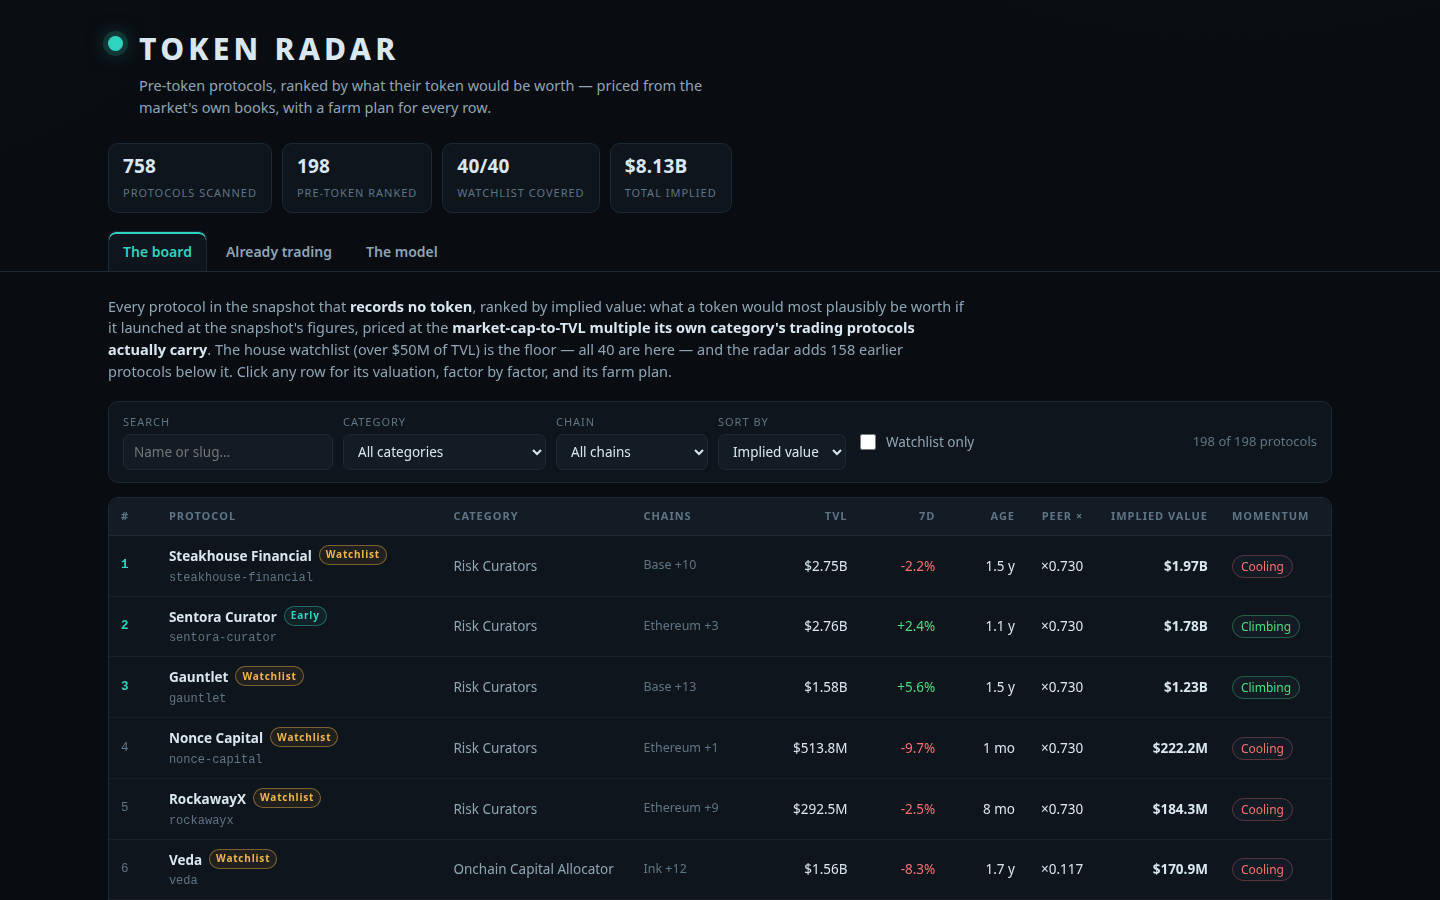
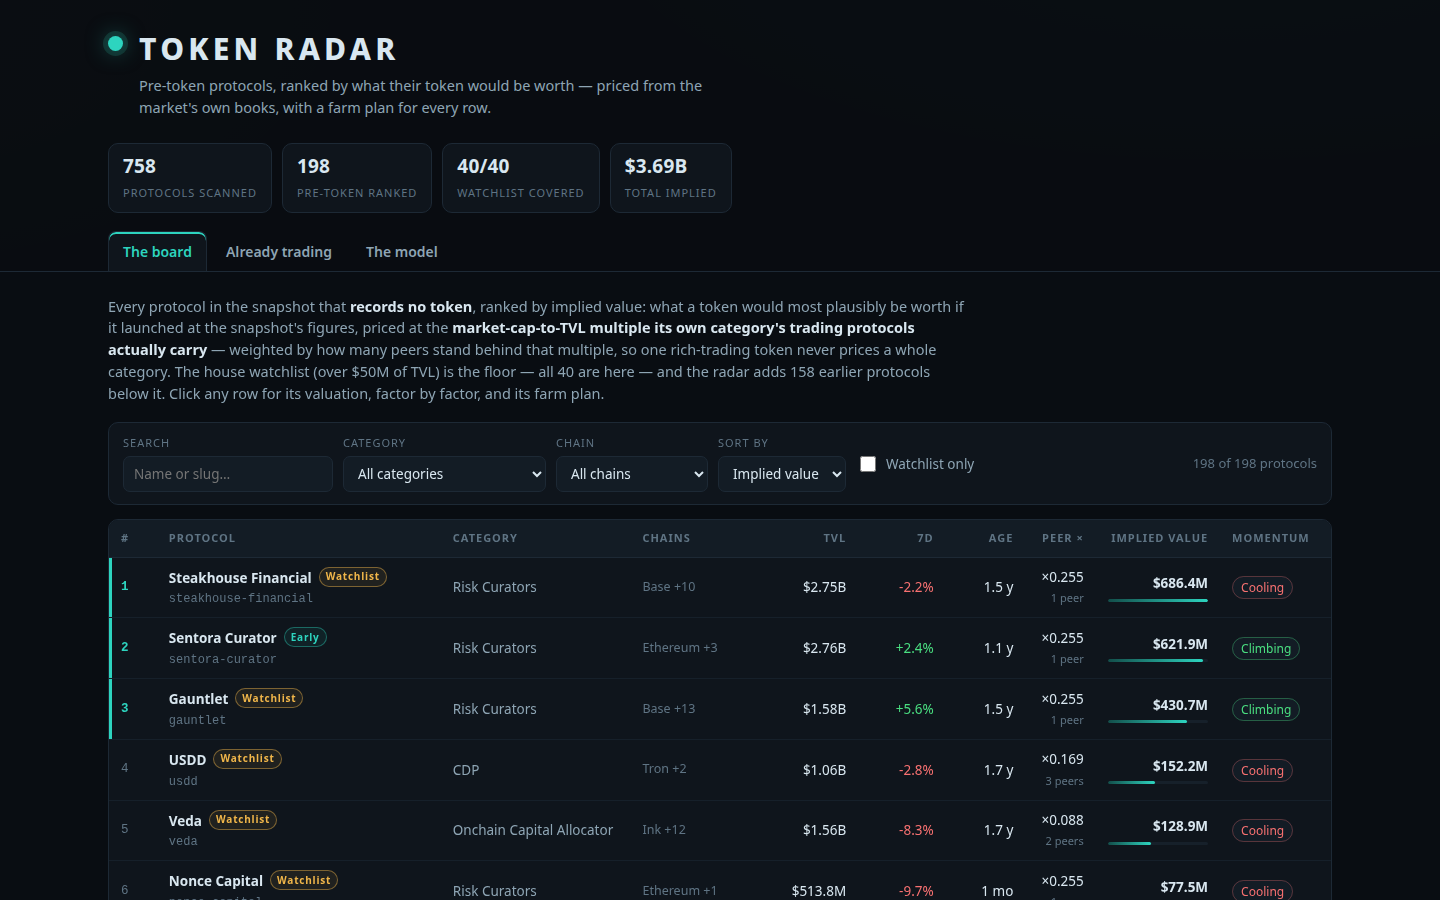
Radar-3: credibility-weighted peer multiples
A category's peer median now counts only with its credibility
Z = peers / (peers + 6), blended geometrically with the market median
(market^(1-Z) x median^Z) instead of an arithmetic shrink. One thin
peer set no longer prices a whole category: Risk Curators' single
12M peer (API3, median x2.975) took the category to x0.730 and 9 of
the top 12 board rows; it now prices at x0.255 (14% credibility), and
the board's top is led by the largest books at believable values
(total implied 8.13B -> 3.69B). Well-supported categories barely
move (Lending x0.142 -> x0.144).

Dashboard: credibility shown on the model page's multiples table and
in every detail page's factor arithmetic; board rows show peer counts
and an implied-value bar; screenshots re-captured. All seven gate
rows re-verified locally; two runs byte-identical.

diff --git a/dashboard/app.js b/dashboard/app.js
@@ -78,7 +78,8 @@ function renderBoard(params) {
   <section class="view">
     <p class="lede">Every protocol in the snapshot that <b>records no token</b>, ranked by implied value: what a token
     would most plausibly be worth if it launched at the snapshot's figures, priced at the <b>market-cap-to-TVL multiple
-    its own category's trading protocols actually carry</b>. The house watchlist (over $${(R.floor_usd / 1e6).toFixed(0)}M of TVL) is the floor —
+    its own category's trading protocols actually carry</b> — weighted by how many peers stand behind that multiple, so one
+    rich-trading token never prices a whole category. The house watchlist (over $${(R.floor_usd / 1e6).toFixed(0)}M of TVL) is the floor —
     all ${R.counts.watchlist} are here — and the radar adds ${R.counts.early} earlier protocols below it. Click any row for its
     valuation, factor by factor, and its farm plan.</p>
     <div class="toolbar">
@@ -120,6 +121,8 @@ function renderBoard(params) {
   applyFilters();
 }
 
+const topImplied = R.rows.length > 0 ? R.rows[0].implied_value_usd : 1;
+
 function applyFilters() {
   const q = state.q.trim().toLowerCase();
   let rows = R.rows.filter((r) =>
@@ -147,8 +150,8 @@ function applyFilters() {
       <td class="num">${money(r.tvl_usd)}</td>
       <td class="num">${pct(r.change_7d)}</td>
       <td class="num">${ageText(r.age_days)}</td>
-      <td class="num">${mult(r.model.peer_multiple)}</td>
-      <td class="num implied">${money(r.implied_value_usd)}</td>
+      <td class="num">${mult(r.model.peer_multiple)}<br><span class="peers">${r.model.peer_count} peer${r.model.peer_count === 1 ? '' : 's'}</span></td>
+      <td class="num implied">${money(r.implied_value_usd)}<span class="bar"><i style="width:${Math.max(2, Math.sqrt(r.implied_value_usd / topImplied) * 100).toFixed(1)}%"></i></span></td>
       <td><span class="sig ${r.momentum_signal === 'Surging' || r.momentum_signal === 'Climbing' ? 'hot' : r.momentum_signal === 'Falling' || r.momentum_signal === 'Cooling' ? 'cold' : ''}">${esc(r.momentum_signal)}</span></td>
     </tr>`).join('');
 }
@@ -160,7 +163,7 @@ function renderDetail(r) {
   const peers = R.live.filter((l) => l.category === r.category).slice(0, 5);
   const steps = [
     ['TVL — the book being priced', moneyFull(r.tvl_usd), r.tvl_usd],
-    [`Peer multiple — ${esc(r.category ?? 'uncategorised')}, ${m ? `${m.peers} trading peers` : 'market median'}`, mult(r.model.peer_multiple), r.tvl_usd * r.model.peer_multiple],
+    [`Peer multiple — ${esc(r.category ?? 'uncategorised')}, ${m && m.peers > 0 ? `median ${mult(m.peer_median ?? 0)} from ${m.peers} trading peer${m.peers === 1 ? '' : 's'}, credibility ${Math.round(m.credibility * 100)}%` : 'market median, no qualifying peer'}`, mult(r.model.peer_multiple), r.tvl_usd * r.model.peer_multiple],
     [`Momentum — seven-day TVL change ${r.change_7d === null ? 'unreported' : `${r.change_7d.toFixed(1)}%`}, saturated`, mult(r.model.momentum_factor), r.tvl_usd * r.model.peer_multiple * r.model.momentum_factor],
     [`Maturity — ${r.age_days === null ? 'listing date unreported, scored as one year' : `${commas(r.age_days)} days tracked with no token`}`, mult(r.model.maturity_factor), r.tvl_usd * r.model.peer_multiple * r.model.momentum_factor * r.model.maturity_factor],
     [`Breadth — TVL on ${r.chains.length} chain${r.chains.length === 1 ? '' : 's'}`, mult(r.model.breadth_factor), r.implied_value_usd],
@@ -191,7 +194,7 @@ function renderDetail(r) {
             ${steps.map(([name, factor, running], i) => `<tr class="${i === steps.length - 1 ? 'total' : ''}"><td class="fname">${name}</td><td class="num">${factor}</td><td class="num">${moneyFull(Math.round(running))}</td></tr>`).join('')}
           </table>
           <p>${m && m.peers > 0
-            ? `The multiple is the median market-cap/TVL of ${m.peers} already-trading ${esc(m.category)} protocols with a book over ${money(R.peer_min_tvl_usd)}, each ratio capped at ${R.peer_ratio_cap}×, shrunk toward the market median of ${mult(R.market_multiple)}.`
+            ? `The category median is ${mult(m.peer_median ?? 0)} — the median market-cap/TVL of ${m.peers} already-trading ${esc(m.category)} protocol${m.peers === 1 ? '' : 's'} with a book over ${money(R.peer_min_tvl_usd)}, each ratio capped at ${R.peer_ratio_cap}×. A median of ${m.peers} is evidence, not gospel, so it counts with credibility ${Math.round(m.credibility * 100)}% (${m.peers} peer${m.peers === 1 ? '' : 's'} against the model's k = ${R.constants.shrink_k}) and the multiple used is its geometric blend with the market median of ${mult(R.market_multiple)}: ${mult(r.model.peer_multiple)}. Thin categories stay near the market's price until more of their tokens trade; thick ones speak for themselves.`
             : `No already-trading protocol in this category carries a book over ${money(R.peer_min_tvl_usd)}, so the radar prices it at the whole-market median multiple of ${mult(R.market_multiple)} rather than inventing a category figure.`}</p>
           ${peers.length > 0 ? `<p>Trading peers on the calibration view: ${peers.map((l) => `${esc(l.name)} (${mult(l.mcap_to_tvl)})`).join(' · ')}.</p>` : ''}
           <p>Chains: ${r.chains.map(esc).join(', ') || 'none named'}.</p>
@@ -214,7 +217,8 @@ function renderLive() {
     <p class="lede">These protocols' tokens <b>already trade</b>, so the radar never ranks them — it measures with them.
     The board's multiples are built from the qualifying peers among them: a book over ${money(R.peer_min_tvl_usd)} and a ratio
     no higher than ${R.peer_ratio_cap}×, so a stretched or tiny-book token — a few sit near the top of this very table — cannot
-    set a category's price. Here they all are at the market's own raw values, largest first.</p>
+    set a category's price; and each category's median counts only with its credibility, so a category carried by one or two
+    of these books stays near the market's own price. Here they all are at the market's own raw values, largest first.</p>
     <div class="board-wrap"><table class="board">
       <thead><tr><th>Protocol</th><th>Category</th><th>Token</th><th class="num">TVL</th><th class="num">Market cap</th><th class="num">Cap / TVL</th><th class="num">7d</th></tr></thead>
       <tbody>${R.live.map((l) => `
@@ -245,7 +249,7 @@ function renderModel() {
       <div class="card">
         <h3>The four factors</h3>
         <ul class="tight">
-          <li><b>Peer multiple.</b> For the protocol's category, the median market-cap/TVL of its already-trading protocols whose TVL clears ${money(R.peer_min_tvl_usd)} (twice the snapshot's own floor), each ratio capped at ${R.peer_ratio_cap}× so one float-driven token cannot set a category's price. The median is shrunk toward the market median (${mult(R.market_multiple)}) with weight k = ${c.shrink_k}: a category with few peers borrows the market's strength, one with many stands alone. A category with no qualifying peer is priced at the market median, openly.</li>
+          <li><b>Peer multiple.</b> For the protocol's category, the median market-cap/TVL of its already-trading protocols whose TVL clears ${money(R.peer_min_tvl_usd)} (twice the snapshot's own floor), each ratio capped at ${R.peer_ratio_cap}× so one float-driven token cannot set a category's price. The median then counts only with its <b>credibility</b>, Z = peers / (peers + ${c.shrink_k}), and the multiple used is the geometric blend <code>market^(1−Z) × median^Z</code> against the market median (${mult(R.market_multiple)}): a lone peer — one small book whose token trades rich — moves its category barely a seventh of the way off the market's price, six peers earn half the say, and a category with thirty peers stands nearly on its own. The blend is geometric because a multiple is a ratio, and evidence about ratios multiplies rather than adds. A category with no qualifying peer is priced at the market median, openly.</li>
           <li><b>Momentum.</b> The seven-day TVL change through a saturating curve, <code>1 + ${c.momentum_weight} × g / (${c.momentum_scale} + |g|)</code>: +25% earns about ×1.18, +400% only ×1.33, and a collapsing book is marked down, never to zero.</li>
           <li><b>Maturity.</b> <code>${c.maturity_base} + ${c.maturity_span} × age / (age + ${c.maturity_mid_days})</code> on days tracked with no token: a launch-day record starts at ×0.60 and a three-year record approaches ×1.00. An unreported listing date is scored as one year — neither punished nor believed.</li>
           <li><b>Breadth.</b> ×${c.breadth_per_chain} per chain beyond the first, up to ${c.breadth_max_extra} extra chains: distribution is worth something, and not much.</li>
@@ -264,8 +268,8 @@ function renderModel() {
       <div>
         <h3 style="margin:2px 0 8px; font-size:13px; text-transform:uppercase; letter-spacing:0.1em; color:var(--teal)">Measured multiples by category</h3>
         <div class="scrollbox"><table class="plain">
-          <thead><tr><th>Category</th><th class="num">Peers</th><th class="num">Peer median</th><th class="num">Multiple used</th></tr></thead>
-          <tbody>${R.multiples.map((m) => `<tr><td>${esc(m.category)}</td><td class="num">${m.peers}</td><td class="num">${m.peer_median === null ? '—' : mult(m.peer_median)}</td><td class="num">${mult(m.multiple)}</td></tr>`).join('')}
+          <thead><tr><th>Category</th><th class="num">Peers</th><th class="num">Peer median</th><th class="num">Credibility</th><th class="num">Multiple used</th></tr></thead>
+          <tbody>${R.multiples.map((m) => `<tr><td>${esc(m.category)}</td><td class="num">${m.peers}</td><td class="num">${m.peer_median === null ? '—' : mult(m.peer_median)}</td><td class="num">${m.peers === 0 ? '—' : `${Math.round(m.credibility * 100)}%`}</td><td class="num">${mult(m.multiple)}</td></tr>`).join('')}
           </tbody>
         </table></div>
         <p style="color:var(--faint); font-size:12.5px">Model ${esc(R.model_version)} · snapshot as of ${esc(R.as_of)}. Implied value is a claim about a hypothetical token at today's figures, not a forecast of an airdrop, a date or an allocation.</p>

diff --git a/lib/model.ts b/lib/model.ts
@@ -7,11 +7,15 @@
 //   implied = TVL x peer multiple x momentum x maturity x breadth
 //
 // - peer multiple: protocols in the same DefiLlama category whose token already trades give a
-//   market cap / TVL ratio each; the category's multiple is their median, shrunk toward the
-//   whole-market median by the peer count, so a category with two peers borrows strength from
-//   the market and one with thirty stands on its own. No multiple is typed in by hand: every
-//   one is measured from the snapshot's live-token protocols at run time, so the same program
-//   re-prices the board the day the snapshot changes.
+//   market cap / TVL ratio each; the category's multiple starts from their median, but the
+//   median counts only with its credibility Z = peers / (peers + k): the multiple is the
+//   geometric blend market^(1-Z) x median^Z. One peer — in this snapshot a single $12M book
+//   whose token happens to trade rich — moves its category barely a seventh of the way from
+//   the market median to its own figure, while a category with thirty peers stands nearly on
+//   its own. The blend is geometric because a multiple is a ratio: evidence about ratios
+//   multiplies, it does not add. No multiple is typed in by hand: every one is measured from
+//   the snapshot's live-token protocols at run time, so the same program re-prices the board
+//   the day the snapshot changes.
 // - momentum: the seven-day TVL change, passed through a saturating curve (g / (25 + |g|)) so a
 //   +4,000% print on a small base cannot outvote a year of TVL, then weighted at 0.35.
 // - maturity: a hyperbolic credit for days tracked with no token, age / (age + 365), worth
@@ -60,7 +64,7 @@ export interface Constants {
 }
 
 export const CONSTANTS: Constants = {
-  shrink_k: 4,
+  shrink_k: 6,
   momentum_weight: 0.35,
   momentum_scale: 25,
   maturity_base: 0.6,
@@ -72,7 +76,7 @@ export const CONSTANTS: Constants = {
 };
 
 /** The model's version, named wherever its values are quoted. */
-export const MODEL_VERSION = 'radar-2 (peer multiples)';
+export const MODEL_VERSION = 'radar-3 (credibility-weighted peer multiples)';
 
 /** How many already-trading protocols the dashboard's calibration view carries. */
 export const LIVE_VIEW_ROWS = 36;
@@ -189,6 +193,8 @@ export interface CategoryMultiple {
   category: string;
   peers: number;
   peer_median: number | null;
+  /** How far the category's own median counts against the market's: peers / (peers + shrink_k). */
+  credibility: number;
   multiple: number;
 }
 
@@ -216,8 +222,13 @@ export const PEER_RATIO_CAP = 3;
 /**
  * The market's own yardsticks, measured from the snapshot: for every category, the median
  * market-cap/TVL of its already-trading protocols with a real book (TVL at or above
- * PEER_MIN_TVL_USD), each ratio winsorised at PEER_RATIO_CAP, shrunk toward the whole-market
- * median with weight shrink_k. Categories with no trading peer take the market median itself.
+ * PEER_MIN_TVL_USD), each ratio winsorised at PEER_RATIO_CAP. The median is then blended
+ * with the whole-market median by credibility: with n peers the category's own figure
+ * carries weight Z = n / (n + shrink_k) and the market's carries 1 - Z, combined
+ * geometrically — multiple = market^(1-Z) x median^Z — so a category needs shrink_k peers
+ * before its own median counts for even half, and a lone peer, however rich its token
+ * trades, can lift its category only a little way off the market's price. Categories with
+ * no trading peer take the market median itself.
  */
 export function measureMultiples(snapshot: Snapshot, constants: Constants = CONSTANTS): { market: number; byCategory: Map<string, CategoryMultiple> } {
   const ratiosByCategory = new Map<string, number[]>();
@@ -238,11 +249,13 @@ export function measureMultiples(snapshot: Snapshot, constants: Constants = CONS
   for (const category of categories) {
     const ratios = ratiosByCategory.get(category) ?? [];
     if (ratios.length === 0) {
-      byCategory.set(category, { category, peers: 0, peer_median: null, multiple: market });
+      byCategory.set(category, { category, peers: 0, peer_median: null, credibility: 0, multiple: market });
     } else {
       const med = median(ratios);
-      const shrunk = (ratios.length * med + constants.shrink_k * market) / (ratios.length + constants.shrink_k);
-      byCategory.set(category, { category, peers: ratios.length, peer_median: med, multiple: shrunk });
+      const credibility = ratios.length / (ratios.length + constants.shrink_k);
+      const multiple =
+        med > 0 && market > 0 ? Math.exp((1 - credibility) * Math.log(market) + credibility * Math.log(med)) : market;
+      byCategory.set(category, { category, peers: ratios.length, peer_median: med, credibility, multiple });
     }
   }
   return { market, byCategory };

diff --git a/dashboard/app.css b/dashboard/app.css
@@ -109,6 +109,11 @@ table.board tbody tr:hover { background: rgba(45, 212, 191, 0.045); }
 table.board tbody tr:last-child td { border-bottom: none; }
 .rank { color: var(--faint); font-family: var(--mono); font-size: 12.5px; }
 tr.top3 .rank { color: var(--teal); font-weight: 700; }
+tr.top3 td:first-child { box-shadow: inset 3px 0 0 var(--teal); }
+.peers { color: var(--faint); font-size: 11px; font-variant-numeric: tabular-nums; }
+.bar { display: block; height: 3px; margin-top: 5px; background: var(--line-soft); border-radius: 2px; overflow: hidden; }
+.bar i { display: block; height: 100%; background: linear-gradient(90deg, var(--teal-dim), var(--teal)); border-radius: 2px; }
+::selection { background: rgba(45, 212, 191, 0.28); }
 .pname { font-weight: 650; color: var(--ink); }
 .pslug { color: var(--faint); font-size: 12px; font-family: var(--mono); }
 .cat { color: var(--dim); white-space: nowrap; }

diff --git a/lib/board.ts b/lib/board.ts
@@ -172,7 +172,12 @@ export function buildRadar(snapshot: Snapshot, constants: Constants = CONSTANTS)
     peer_min_tvl_usd: PEER_MIN_TVL_USD,
     peer_ratio_cap: PEER_RATIO_CAP,
     market_multiple: round4(market),
-    multiples: multiples.map((m) => ({ ...m, peer_median: m.peer_median === null ? null : round4(m.peer_median), multiple: round4(m.multiple) })),
+    multiples: multiples.map((m) => ({
+      ...m,
+      peer_median: m.peer_median === null ? null : round4(m.peer_median),
+      credibility: round4(m.credibility),
+      multiple: round4(m.multiple),
+    })),
     counts: {
       protocols: snapshot.protocols.length,
       pre_token: snapshot.protocols.filter(recordsNoToken).length,

diff --git a/README.md b/README.md
@@ -16,7 +16,7 @@ One formula, recomputed from the snapshot on every run — no hardcoded names, n
 implied value = TVL × peer multiple × momentum × maturity × breadth
 ```
 
-- **Peer multiple** — for the protocol's category, the median market-cap/TVL of its already-trading protocols whose TVL clears $10M (twice the snapshot's own $5M universe floor), each ratio winsorized at 3× so one float-driven token cannot set a category's price. The median is shrunk toward the whole-market median (×0.169) with weight k = 4: a category with few peers borrows the market's strength, one with many stands alone. A category with no qualifying peer is priced at the market median, openly. (This is why one $6.6M book carrying a $2.65B token does not price Prediction Market.)
+- **Peer multiple** — for the protocol's category, the median market-cap/TVL of its already-trading protocols whose TVL clears $10M (twice the snapshot's own $5M universe floor), each ratio winsorized at 3× so one float-driven token cannot set a category's price. The median then counts only with its credibility, Z = peers / (peers + 6), and the multiple used is the geometric blend `market^(1−Z) × median^Z` against the whole-market median (×0.169): a lone peer moves its category barely a seventh of the way off the market's price, six peers earn half the say, and a category with many peers stands nearly alone. A category with no qualifying peer is priced at the market median, openly. (This is why one $6.6M book carrying a $2.65B token does not price Prediction Market — and why Risk Curators, carried by a single $12M peer whose token trades at ×2.97, prices at ×0.255 rather than the ×0.730 an unweighted blend would claim.)
 - **Momentum** — the seven-day TVL change through a saturating curve, `1 + 0.35 × g / (25 + |g|)`: +25% earns about ×1.18, +400% only ×1.33, and a shrinking book is marked down, never to zero.
 - **Maturity** — `0.6 + 0.4 × age / (age + 365)` on days tracked with no token: a launch-day record starts at ×0.60, a three-year record approaches ×1.00. An unreported listing date is scored as one year.
 - **Breadth** — ×1.02 per chain beyond the first, up to ten extra chains.
